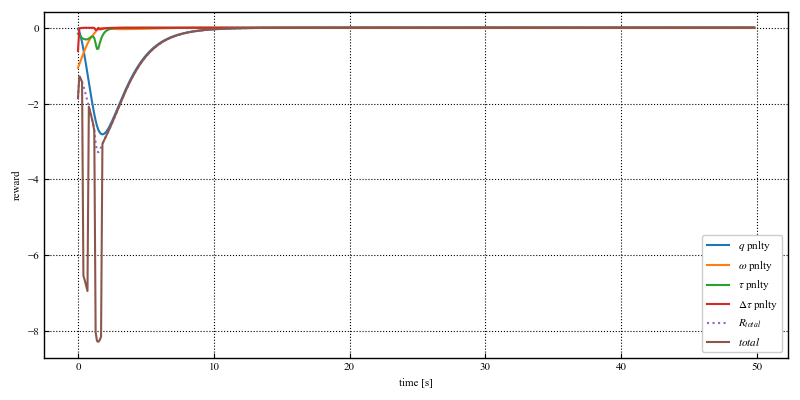
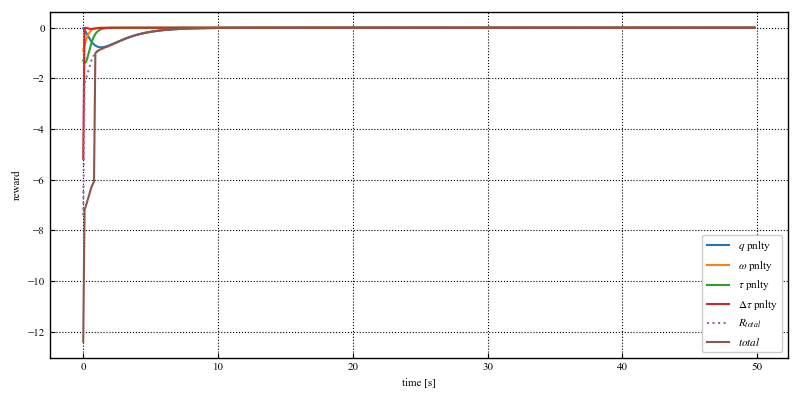
UPDATE: change penaly from -5 to -25

diff --git a/td3/environment.py b/td3/environment.py
@@ -280,7 +280,7 @@ class SatelliteContinuousEnv(gym.Env):
             self.r4 = self.action_rate_weight*(action_delta@action_delta)/self.dt
             reward = -(self.r1 + self.r2 + self.r3 + self.r4) 
             if max(abs(action)) > 0.5:
-                reward += -5 
+                reward += -25 
 
         elif self.steps_beyond_done is None:
             # epsiode just ended
